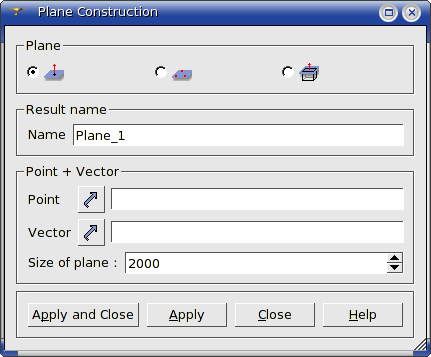
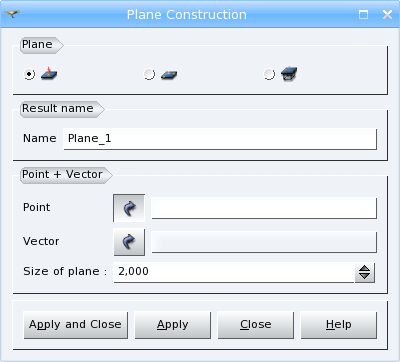
IPAL20712 5x: Couldn't select plane as "Face-Selection"

Changed region(s): [[0.0, 0.0, 1.0, 1.0], [0.18, 0.5546, 0.21, 0.5854]]

diff --git a/src/GEOMGUI/GEOM_msg_en.ts b/src/GEOMGUI/GEOM_msg_en.ts
@@ -552,6 +552,10 @@ Please, select face, shell or solid and try again</translation>
             <source>GEOM_FACE</source>
             <translation>Face</translation>
         </message>
+	<message>
+            <source>GEOM_LCS</source>
+            <translation>Local coordinate system</translation>
+        </message>
         <message>
             <source>GEOM_FACES</source>
             <translation>Faces</translation>

diff --git a/src/BasicGUI/BasicGUI_PlaneDlg.h b/src/BasicGUI/BasicGUI_PlaneDlg.h
@@ -31,6 +31,7 @@
 class DlgRef_1Sel1Spin;
 class DlgRef_2Sel1Spin;
 class DlgRef_3Sel1Spin;
+class DlgRef_3Radio1Sel1Spin;
 
 //=================================================================================
 // class    : BasicGUI_PlaneDlg
@@ -61,7 +62,7 @@ private:
 
   DlgRef_2Sel1Spin*                  GroupPntDir;
   DlgRef_3Sel1Spin*                  Group3Pnts;
-  DlgRef_1Sel1Spin*                  GroupFace;
+  DlgRef_3Radio1Sel1Spin*            GroupFace;
 
 private slots:
   void                               ClickOnOk();
@@ -76,6 +77,7 @@ private slots:
   void                               ConstructorsClicked( int );
   void                               ValueChangedInSpinBox( double );
   void                               SetDoubleSpinBoxStep( double );
+  void                               SelectionTypeClicked();
 };
 
 #endif // BASICGUI_PLANEDLG_H

diff --git a/src/DlgRef/DlgRef.h b/src/DlgRef/DlgRef.h
@@ -565,6 +565,22 @@ public:
 };
 
 //////////////////////////////////////////
+// DlgRef_1Sel3Radio1Sel1Spin
+//////////////////////////////////////////
+
+#include "ui_DlgRef_3Radio1Sel1Spin_QTD.h"
+
+class DLGREF_EXPORT DlgRef_3Radio1Sel1Spin : public QWidget, 
+                                             public Ui::DlgRef_3Radio1Sel1Spin_QTD
+{
+  Q_OBJECT
+
+public:
+  DlgRef_3Radio1Sel1Spin( QWidget* = 0, Qt::WindowFlags = 0 );
+  ~DlgRef_3Radio1Sel1Spin();
+};
+
+//////////////////////////////////////////
 // DlgRef_3Sel1Check
 //////////////////////////////////////////
 
